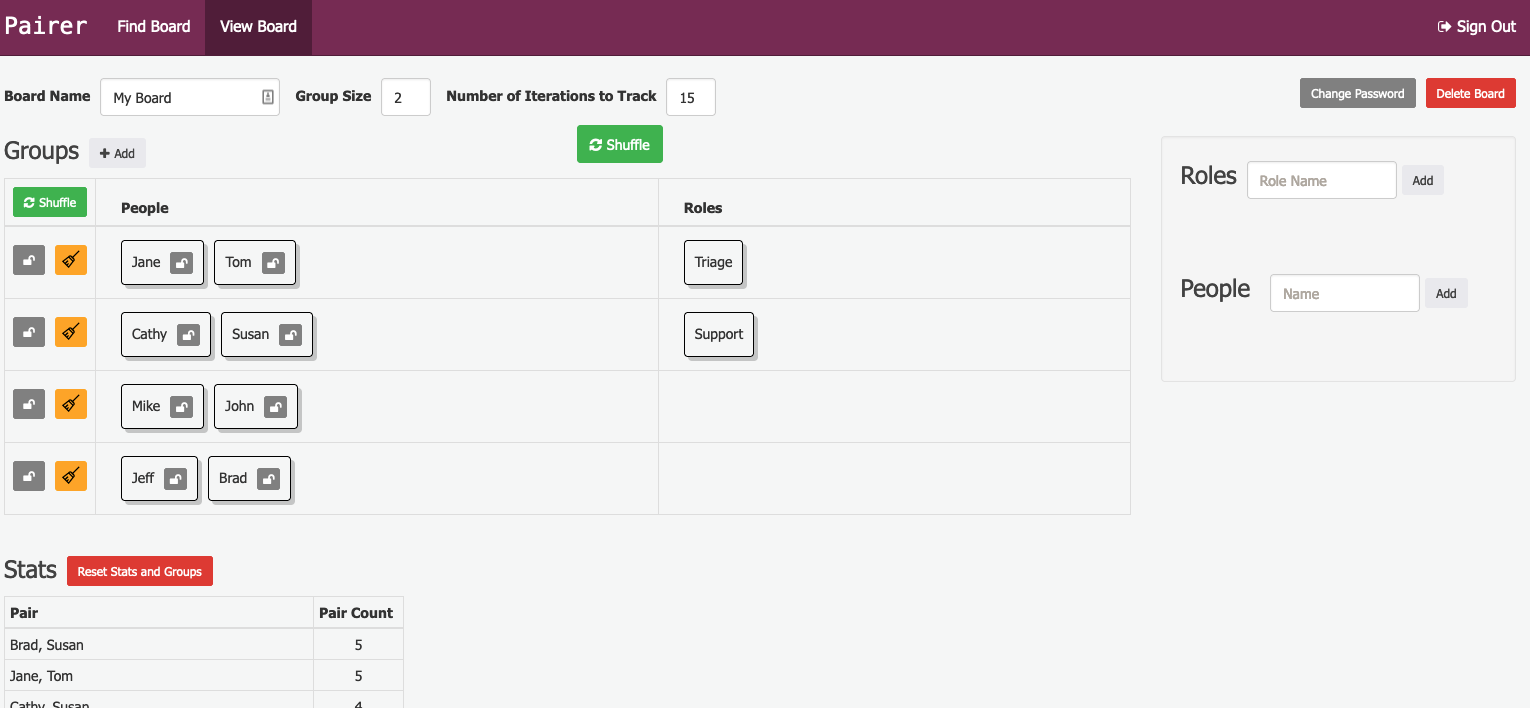
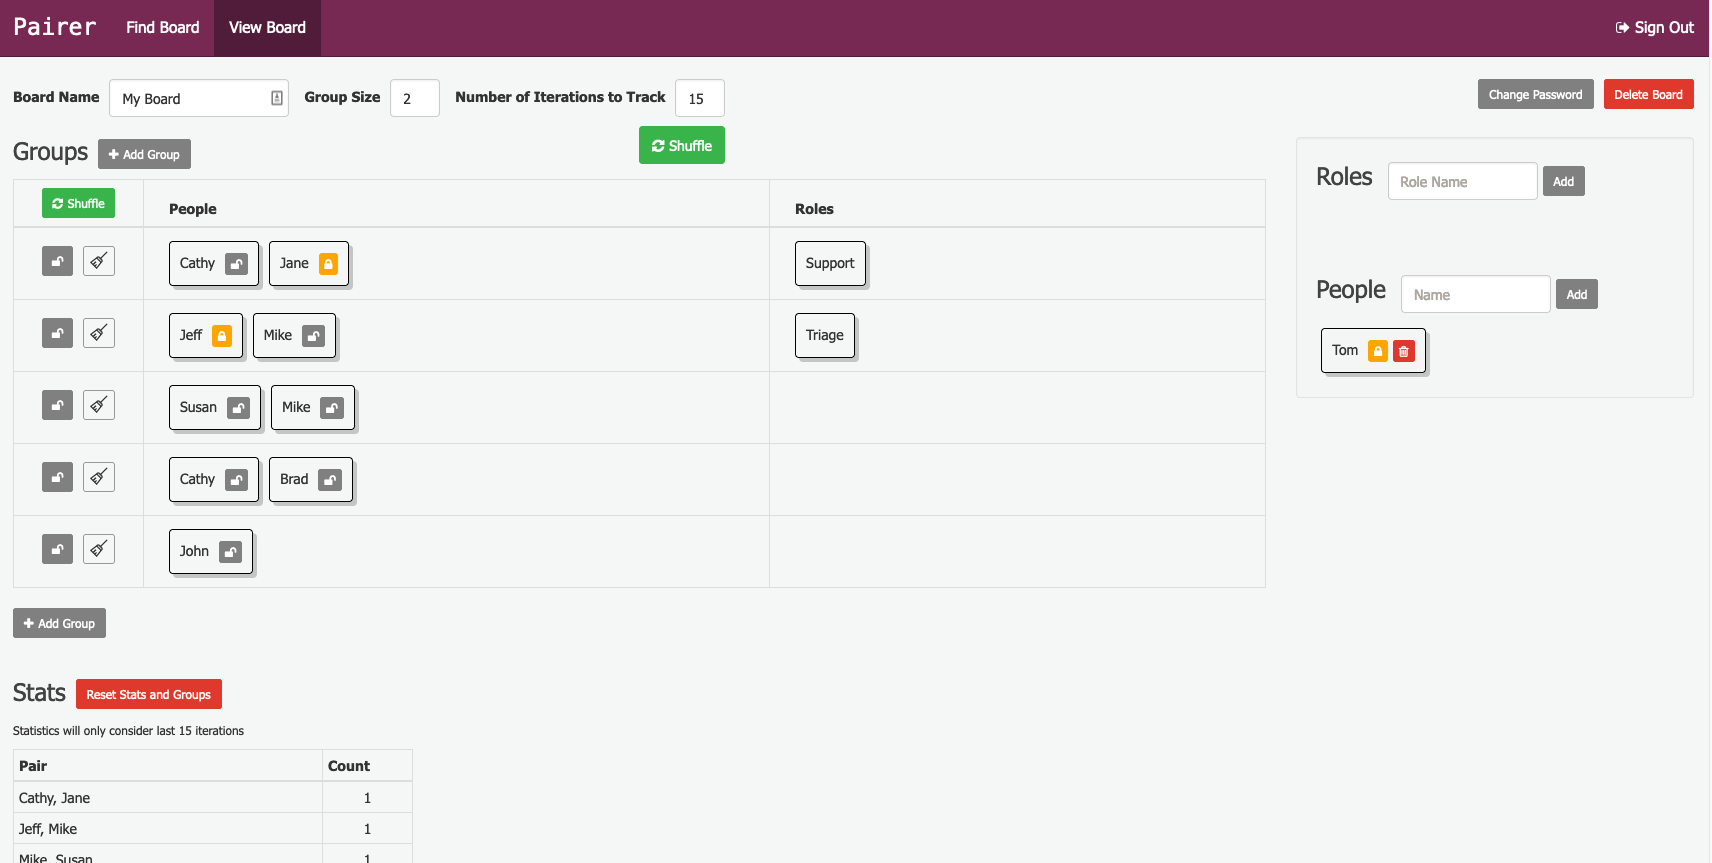
2022-11-11

diff --git a/README.md b/README.md
@@ -85,7 +85,7 @@ Rack::Attack.throttle('limit unauthorized non-get requests', limit: 5, period: 1
     subdomain = req.host.split('.').first
     site_is_pairer = subdomain&.casecmp?("pairer") ### Replace this with whatever logic is applicable to your app
 
-    if !Pairer.config.allowed_org_ids.include?(req.session[:pairer_current_org_id])
+    if site_is_pairer && !Pairer.config.allowed_org_ids.include?(req.session[:pairer_current_org_id])
       ### Not signed-in to Pairer
       req.ip
     end

diff --git a/CHANGELOG.md b/CHANGELOG.md
@@ -1,5 +1,11 @@
 # CHANGELOG
 
+### November 11, 2022
+
+- Improve highlighting for lock buttons on locked people and groups
+- Change colors of sweep button
+- Add missing Javascript DOM manipulations after "Sweep" action
+
 ### November 3, 2022
 
 - Fix exception on boards#show page after people are deleted
